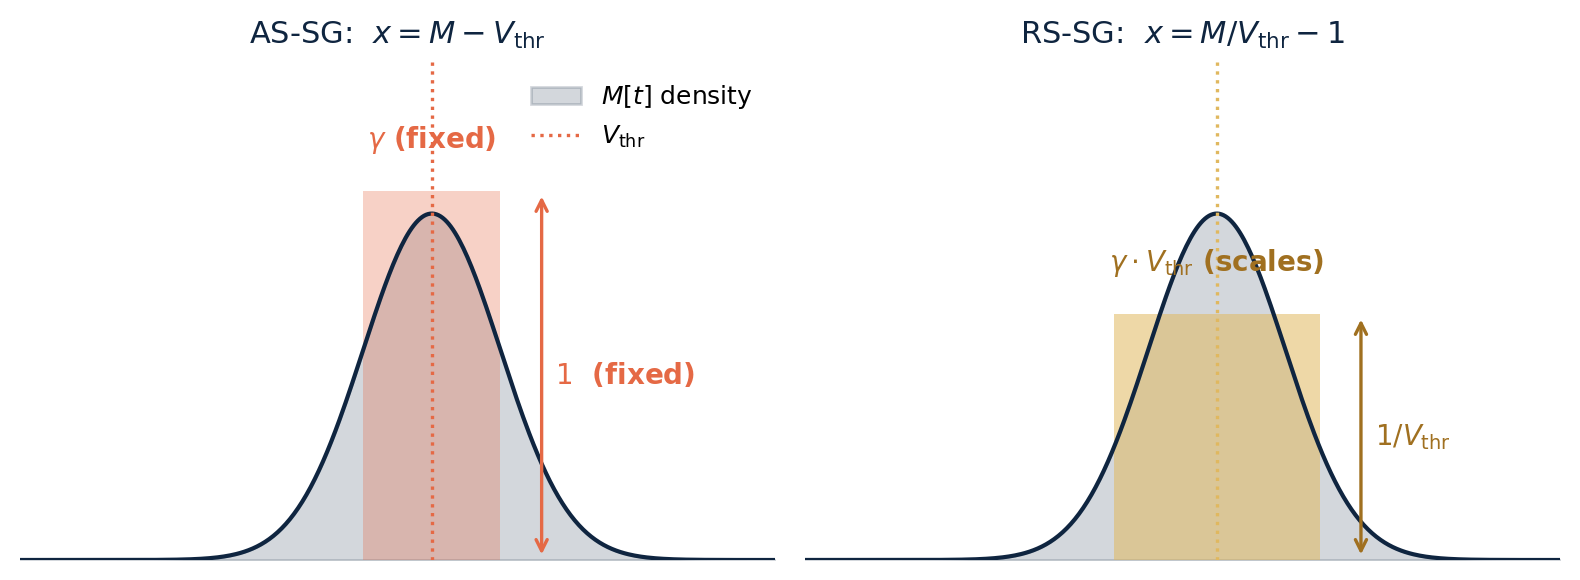
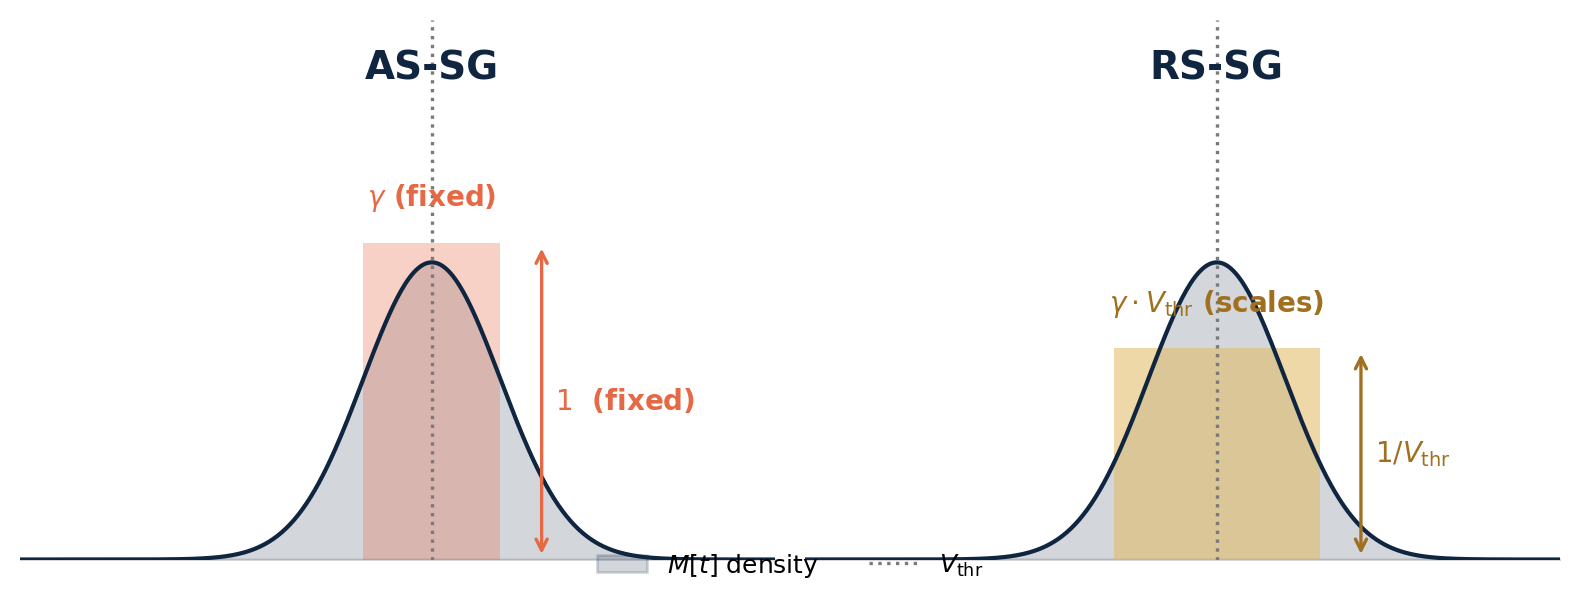
S16 + S11 chart polish
S16 (no_training_acc):
  Bar value labels for AS-SG and RS-SG were rounded to integers
  (".0f"), so the V_thr=1.0 cells displayed '76' even though the
  underlying value (75.56, identical to TrSG) should round to '75.6'
  with one decimal.  Switched all three rows to ".1f" so the
  V_thr=1.0 column reads 75.6 / 75.6 / 75.6 — the visual makes the
  "they coincide" point obvious without any footnote.

S11 (sg_windows):
  Per-subplot titles changed.  Was:
      ax.set_title("AS-SG:  x = M − V_thr")   ← centered to subplot
  Now:
      ax.text(V_thr, top, "AS-SG", ha="center")  ← centered to V_thr
  Equation dropped from the title (already on the AS-SG card).
  Legend moved out of the per-axes upper-right corner (where it was
  hovering near the rectangles) to a single shared figure-level
  legend at the bottom: 'M[t] density · V_thr'.
  V_thr dotted line color CORAL/AMBER → GRAY so it reads as a
  reference axis (not a category color), and ylim raised 1.15→1.45
  to give the new title room.

https://claude.ai/code/session_01KsoZVcMJ4zaC3YipGd4nvb

diff --git a/gen_ppt_visuals.py b/gen_ppt_visuals.py
@@ -69,11 +69,11 @@ def density(x, mu, s=0.5):
 # Left: AS-SG  (window width = γ regardless of V_thr; height = 1)
 ax = axes[0]
 mu = 1.5; gamma = 1.0
-ax.fill_between(xs, density(xs, mu), color=NAVY, alpha=0.18,
-                label="$M[t]$ density")
-ax.plot(xs, density(xs, mu), color=NAVY, lw=1.5)
 V_thr = mu
-ax.axvline(V_thr, color=CORAL, ls=":", lw=1.2, label="$V_{\\rm thr}$")
+density_handle = ax.fill_between(xs, density(xs, mu), color=NAVY, alpha=0.18,
+                                  label="$M[t]$ density")
+ax.plot(xs, density(xs, mu), color=NAVY, lw=1.5)
+vthr_handle = ax.axvline(V_thr, color=GRAY, ls=":", lw=1.2, label="$V_{\\rm thr}$")
 as_h = 0.85
 rect = patches.Rectangle((V_thr - gamma/2, 0), gamma, as_h,
                           linewidth=0, color=CORAL, alpha=0.30)
@@ -87,11 +87,12 @@ ax.annotate("", xy=(V_thr + gamma/2 + 0.30, as_h),
             arrowprops=dict(arrowstyle="<->", color=CORAL, lw=1.2))
 ax.text(V_thr + gamma/2 + 0.40, as_h/2, "$1$  (fixed)",
         fontsize=10, ha="left", va="center", color=CORAL, fontweight="bold")
-ax.set_title("AS-SG:  $x = M - V_{\\rm thr}$", fontsize=11, color=NAVY)
-ax.set_xlim(-1.5, 4); ax.set_ylim(0, 1.15)
+# Title centered above V_thr (not above the whole subplot)
+ax.text(V_thr, 1.32, "AS-SG", ha="center", va="center",
+        fontsize=14, color=NAVY, fontweight="bold")
+ax.set_xlim(-1.5, 4); ax.set_ylim(0, 1.45)
 ax.set_xticks([]); ax.set_yticks([])
 ax.spines[:].set_visible(False)
-ax.legend(loc="upper right", fontsize=9, frameon=False)
 
 # Right: RS-SG  (window scales with V_thr; height = 1/V_thr)
 ax = axes[1]
@@ -99,7 +100,7 @@ mu = 1.5; gamma = 1.0
 V_thr = mu
 ax.fill_between(xs, density(xs, mu), color=NAVY, alpha=0.18)
 ax.plot(xs, density(xs, mu), color=NAVY, lw=1.5)
-ax.axvline(V_thr, color=AMBER, ls=":", lw=1.2)
+ax.axvline(V_thr, color=GRAY, ls=":", lw=1.2)
 window_w = gamma * V_thr
 rs_h = as_h / V_thr  # height inversely scales with V_thr
 rect = patches.Rectangle((V_thr - window_w/2, 0), window_w, rs_h,
@@ -114,10 +115,17 @@ ax.annotate("", xy=(V_thr + window_w/2 + 0.30, rs_h),
             arrowprops=dict(arrowstyle="<->", color="#A07020", lw=1.2))
 ax.text(V_thr + window_w/2 + 0.40, rs_h/2, "$1/V_{\\rm thr}$",
         fontsize=10, ha="left", va="center", color="#A07020", fontweight="bold")
-ax.set_title("RS-SG:  $x = M / V_{\\rm thr} - 1$", fontsize=11, color=NAVY)
-ax.set_xlim(-1.5, 4); ax.set_ylim(0, 1.15)
+# Title centered above V_thr
+ax.text(V_thr, 1.32, "RS-SG", ha="center", va="center",
+        fontsize=14, color=NAVY, fontweight="bold")
+ax.set_xlim(-1.5, 4); ax.set_ylim(0, 1.45)
 ax.set_xticks([]); ax.set_yticks([])
 ax.spines[:].set_visible(False)
+
+# Shared legend at the bottom of the figure
+fig.legend(handles=[density_handle, vthr_handle],
+           loc="lower center", ncol=2, fontsize=9, frameon=False,
+           bbox_to_anchor=(0.5, -0.02))
 
 plt.tight_layout()
 plt.savefig("ppt_assets/gen/sg_windows.png", bbox_inches="tight",
@@ -301,9 +309,11 @@ for f in os.listdir("ppt_assets/gen"):
 # ─── 7. No-training V_thr accuracy — for "Why TrSG Works" S14 ──────
 fig, ax = plt.subplots(figsize=(7.5, 3.0), dpi=200)
 v_thrs = ["0.1", "0.5", "1.0", "1.5", "2.0"]
-ax_vals = [61.59, 75.96, np.nan, 69.97, 18.09]   # AS-SG
-rs_vals = [np.nan, 76.12, np.nan, 71.43,  5.43]   # RS-SG (div. at 0.1)
-tr_vals = [73.99, 76.82, 75.56, 71.97, 64.27]     # TrSG
+# At V_thr=1.0, AS-SG and RS-SG coincide with TrSG (x = M − V_thr = M/V_thr − 1)
+# so we plot the same 75.56 value for all three.
+ax_vals = [61.59, 75.96, 75.56, 69.97, 18.09]   # AS-SG
+rs_vals = [np.nan, 76.12, 75.56, 71.43,  5.43]  # RS-SG (div. at V_thr=0.1)
+tr_vals = [73.99, 76.82, 75.56, 71.97, 64.27]   # TrSG
 
 x = np.arange(len(v_thrs))
 w = 0.27
@@ -311,35 +321,21 @@ b1 = ax.bar(x - w, ax_vals, w, color=CORAL, label="AS-SG", edgecolor="white")
 b2 = ax.bar(x,     rs_vals, w, color=AMBER, label="RS-SG", edgecolor="white")
 b3 = ax.bar(x + w, tr_vals, w, color=TEAL,  label="TrSG",  edgecolor="white")
 
-# Mark missing cells distinctly:
-#   - V_thr=1.0 (idx 2): AS-SG and RS-SG are mathematically identical to TrSG
-#     (paper reports "---" — not run separately).  Show grey "—".
-#   - V_thr=0.1 (idx 0): RS-SG genuinely diverged.  Show coral "div.".
-ax_missing = {2: ("—", GRAY)}                          # AS-SG: only "coincide" case
-rs_missing = {0: ("div.", CORAL), 2: ("—", GRAY)}      # RS-SG: 0.1=div, 1.0=coincide
-
-for xi, val in zip(x, ax_vals):
-    idx = int(xi)
-    if np.isnan(val) and idx in ax_missing:
-        label, color = ax_missing[idx]
-        ax.text(xi - w, 5, label, ha="center", color=color,
-                fontsize=11, fontweight="bold" if label == "div." else "normal")
+# Only RS-SG at V_thr=0.1 (idx 0) genuinely diverged — mark it 'div.'
 for xi, val in zip(x, rs_vals):
-    idx = int(xi)
-    if np.isnan(val) and idx in rs_missing:
-        label, color = rs_missing[idx]
-        ax.text(xi, 5, label, ha="center", color=color,
-                fontsize=11, fontweight="bold" if label == "div." else "normal")
+    if np.isnan(val):
+        ax.text(xi, 5, "div.", ha="center", color=CORAL,
+                fontsize=11, fontweight="bold")
 for bar, val in zip(b3, tr_vals):
     ax.text(bar.get_x() + bar.get_width()/2, val + 1, f"{val:.1f}",
             ha="center", color=TEAL, fontsize=8.5, fontweight="bold")
 for bar, val in zip(b1, ax_vals):
     if not np.isnan(val):
-        ax.text(bar.get_x() + bar.get_width()/2, val + 1, f"{val:.0f}",
+        ax.text(bar.get_x() + bar.get_width()/2, val + 1, f"{val:.1f}",
                 ha="center", color=GRAY, fontsize=8)
 for bar, val in zip(b2, rs_vals):
     if not np.isnan(val):
-        ax.text(bar.get_x() + bar.get_width()/2, val + 1, f"{val:.0f}",
+        ax.text(bar.get_x() + bar.get_width()/2, val + 1, f"{val:.1f}",
                 ha="center", color=GRAY, fontsize=8)
 
 ax.set_xticks(x); ax.set_xticklabels([f"$V_{{\\rm thr}}={v}$" for v in v_thrs], fontsize=10)
@@ -351,10 +347,6 @@ ax.legend(loc="upper center", ncol=3, fontsize=10, frameon=False,
           bbox_to_anchor=(0.5, 1.02))
 ax.set_title("CIFAR-100, ResNet-19, $\\tau=2.0$ frozen — $V_{\\rm thr}$ frozen at varying values",
              fontsize=10.5, color=NAVY, pad=22)
-# Footnote: AS-SG and RS-SG are mathematically identical at V_thr=1.0 (paper convention)
-ax.text(0.5, -0.22,
-        "AS-SG and RS-SG coincide at $V_{\\rm thr}=1.0$ → reported under TrSG only",
-        transform=ax.transAxes, ha="center", fontsize=8.5, color=GRAY, style="italic")
 
 plt.tight_layout()
 plt.savefig("ppt_assets/gen/no_training_acc.png", bbox_inches="tight",